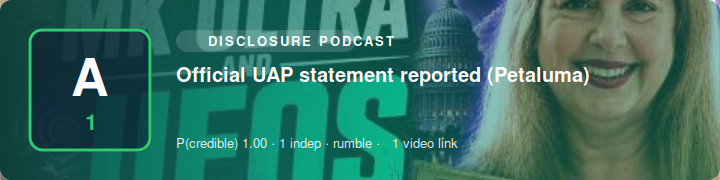
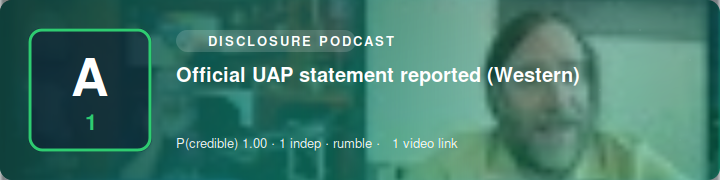
SITREP 2026-07-18 02:30 UTC

diff --git a/index.html b/index.html
@@ -1,1 +1,1 @@
-<!doctype html><meta charset=utf-8><title>Science Bob News — SITREP</title><style>body{font:16px/1.5 system-ui,sans-serif;max-width:760px;margin:2rem auto;padding:0 1rem;color:#111}h1{font-size:1.5rem}h2{margin-top:1.6rem;border-bottom:1px solid #ddd;padding-bottom:.2rem}ul{list-style:none;padding:0}li{margin:.9rem 0}.hl{font-weight:600}.meta{color:#555;font-size:.85rem}.src{font-size:.85rem}.vid{font-size:.85rem;margin-top:.15rem}.card{display:block;max-width:100%;height:auto;border-radius:8px;margin:.4rem 0 .5rem}.upd{background:#fde68a;padding:0 .3rem;border-radius:.2rem;font-size:.75rem}.sub{color:#777;font-size:.85rem}footer{color:#777;font-size:.8rem;margin-top:2rem;border-top:1px solid #ddd;padding-top:.6rem}</style><h1>🛸 Science Bob News</h1><div class="sub">UAP / UFO / USO SITREP · updated 2026-07-18 02:20 UTC · automated</div><h2>Corroborated</h2><ul><li><img class="card" src="https://n4hy.github.io/sciencebobnews-site/card_c_1.svg" alt="" width="720" height="180"><div class="hl">UAP report</div><div class="meta">reliability <b>A1</b> · P(credible)=1.0 · 2 independent source(s) · mastodon</div><div class="src"><a href="https://hachyderm.io/@pragmaticmarg/116936090002250302">@pragmaticmarg@hachyderm.io</a> · <a href="https://chaos.social/@agowa338/116934813769301887">@agowa338@chaos.social</a></div></li></ul><h2>Developing / unconfirmed</h2><ul><li><img class="card" src="https://n4hy.github.io/sciencebobnews-site/card_d_1.svg" alt="" width="720" height="180"><div class="hl">UAP report (McMinnville)</div><div class="meta">reliability <b>A1</b> · P(credible)=1.0 · 1 independent source(s) · rumble</div><div class="src"><a href="https://www.youtube.com/watch?v=7OT6uJ0yzVY">@podcast</a></div><div class="vid">📹 <a href="https://www.youtube.com/watch?v=7OT6uJ0yzVY">video</a></div></li><li><img class="card" src="https://n4hy.github.io/sciencebobnews-site/card_d_2.svg" alt="" width="720" height="180"><div class="hl">UAP whistleblower testimony reported (Frank)</div><div class="meta">reliability <b>A1</b> · P(credible)=1.0 · 1 independent source(s) · rumble</div><div class="src"><a href="https://www.youtube.com/watch?v=CxvFVjJKZtA">@podcast</a></div><div class="vid">📹 <a href="https://www.youtube.com/watch?v=CxvFVjJKZtA">video</a></div></li><li><img class="card" src="https://n4hy.github.io/sciencebobnews-site/card_d_3.svg" alt="" width="720" height="180"><div class="hl">UAP whistleblower testimony reported (American)</div><div class="meta">reliability <b>A1</b> · P(credible)=1.0 · 1 independent source(s) · rumble</div><div class="src"><a href="https://www.youtube.com/watch?v=LPtMaGpuK-M">@podcast</a></div><div class="vid">📹 <a href="https://www.youtube.com/watch?v=LPtMaGpuK-M">video</a></div></li><li><img class="card" src="https://n4hy.github.io/sciencebobnews-site/card_d_4.svg" alt="" width="720" height="180"><div class="hl">UAP report (Australia)</div><div class="meta">reliability <b>A1</b> · P(credible)=1.0 · 1 independent source(s) · rumble</div><div class="src"><a href="https://www.youtube.com/watch?v=ZegQhxJrJGo">@podcast</a></div><div class="vid">📹 <a href="https://www.youtube.com/watch?v=ZegQhxJrJGo">video</a></div></li><li><img class="card" src="https://n4hy.github.io/sciencebobnews-site/card_d_5.svg" alt="" width="720" height="180"><div class="hl">Official UAP statement reported (Petaluma)</div><div class="meta">reliability <b>A1</b> · P(credible)=1.0 · 1 independent source(s) · rumble</div><div class="src"><a href="https://www.youtube.com/watch?v=91mfojYSseo">@podcast</a></div><div class="vid">📹 <a href="https://www.youtube.com/watch?v=91mfojYSseo">video</a></div></li></ul><footer><b>Powered by Science Bob News.</b> Free to use with credit (see LICENSE). Headlines are factual restatements in the engine's own words; click sources for originals. Single-origin reposts collapse to one source; prosaic candidates flagged where offered.</footer>
+<!doctype html><meta charset=utf-8><title>Science Bob News — SITREP</title><style>body{font:16px/1.5 system-ui,sans-serif;max-width:760px;margin:2rem auto;padding:0 1rem;color:#111}h1{font-size:1.5rem}h2{margin-top:1.6rem;border-bottom:1px solid #ddd;padding-bottom:.2rem}ul{list-style:none;padding:0}li{margin:.9rem 0}.hl{font-weight:600}.meta{color:#555;font-size:.85rem}.src{font-size:.85rem}.vid{font-size:.85rem;margin-top:.15rem}.card{display:block;max-width:100%;height:auto;border-radius:8px;margin:.4rem 0 .5rem}.upd{background:#fde68a;padding:0 .3rem;border-radius:.2rem;font-size:.75rem}.sub{color:#777;font-size:.85rem}footer{color:#777;font-size:.8rem;margin-top:2rem;border-top:1px solid #ddd;padding-top:.6rem}</style><h1>🛸 Science Bob News</h1><div class="sub">UAP / UFO / USO SITREP · updated 2026-07-18 02:30 UTC · automated</div><h2>Corroborated</h2><ul><li><img class="card" src="https://n4hy.github.io/sciencebobnews-site/card_c_1.svg" alt="" width="720" height="180"><div class="hl">UAP report (Australia)</div><div class="meta">reliability <b>A1</b> · P(credible)=1.0 · 2 independent source(s) · bluesky+rumble</div><div class="src"><a href="https://www.youtube.com/watch?v=ZegQhxJrJGo">@podcast</a> · <a href="https://bsky.app/profile/did:plc:57ffbcbboipqps6xyajxwgoe/post/3mqv7tt2vhc2d">@did:plc:57ffbcbboipqps6xyajxwgoe</a></div><div class="vid">📹 <a href="https://www.youtube.com/watch?v=ZegQhxJrJGo">video</a></div></li><li><img class="card" src="https://n4hy.github.io/sciencebobnews-site/card_c_2.svg" alt="" width="720" height="180"><div class="hl">UAP report</div><div class="meta">reliability <b>A1</b> · P(credible)=1.0 · 2 independent source(s) · mastodon</div><div class="src"><a href="https://hachyderm.io/@pragmaticmarg/116936090002250302">@pragmaticmarg@hachyderm.io</a> · <a href="https://chaos.social/@agowa338/116934813769301887">@agowa338@chaos.social</a></div></li></ul><h2>Developing / unconfirmed</h2><ul><li><img class="card" src="https://n4hy.github.io/sciencebobnews-site/card_d_1.svg" alt="" width="720" height="180"><div class="hl">UAP report (McMinnville)</div><div class="meta">reliability <b>A1</b> · P(credible)=1.0 · 1 independent source(s) · rumble</div><div class="src"><a href="https://www.youtube.com/watch?v=7OT6uJ0yzVY">@podcast</a></div><div class="vid">📹 <a href="https://www.youtube.com/watch?v=7OT6uJ0yzVY">video</a></div></li><li><img class="card" src="https://n4hy.github.io/sciencebobnews-site/card_d_2.svg" alt="" width="720" height="180"><div class="hl">UAP whistleblower testimony reported (Frank)</div><div class="meta">reliability <b>A1</b> · P(credible)=1.0 · 1 independent source(s) · rumble</div><div class="src"><a href="https://www.youtube.com/watch?v=CxvFVjJKZtA">@podcast</a></div><div class="vid">📹 <a href="https://www.youtube.com/watch?v=CxvFVjJKZtA">video</a></div></li><li><img class="card" src="https://n4hy.github.io/sciencebobnews-site/card_d_3.svg" alt="" width="720" height="180"><div class="hl">UAP whistleblower testimony reported (American)</div><div class="meta">reliability <b>A1</b> · P(credible)=1.0 · 1 independent source(s) · rumble</div><div class="src"><a href="https://www.youtube.com/watch?v=LPtMaGpuK-M">@podcast</a></div><div class="vid">📹 <a href="https://www.youtube.com/watch?v=LPtMaGpuK-M">video</a></div></li><li><img class="card" src="https://n4hy.github.io/sciencebobnews-site/card_d_4.svg" alt="" width="720" height="180"><div class="hl">Official UAP statement reported (Petaluma)</div><div class="meta">reliability <b>A1</b> · P(credible)=1.0 · 1 independent source(s) · rumble</div><div class="src"><a href="https://www.youtube.com/watch?v=91mfojYSseo">@podcast</a></div><div class="vid">📹 <a href="https://www.youtube.com/watch?v=91mfojYSseo">video</a></div></li><li><img class="card" src="https://n4hy.github.io/sciencebobnews-site/card_d_5.svg" alt="" width="720" height="180"><div class="hl">Official UAP statement reported (Western)</div><div class="meta">reliability <b>A1</b> · P(credible)=1.0 · 1 independent source(s) · rumble</div><div class="src"><a href="https://www.youtube.com/watch?v=Po4FnZO4k3c">@podcast</a></div><div class="vid">📹 <a href="https://www.youtube.com/watch?v=Po4FnZO4k3c">video</a></div></li></ul><footer><b>Powered by Science Bob News.</b> Free to use with credit (see LICENSE). Headlines are factual restatements in the engine's own words; click sources for originals. Single-origin reposts collapse to one source; prosaic candidates flagged where offered.</footer>

diff --git a/sitrep.md b/sitrep.md
@@ -1,10 +1,16 @@
 # 🛸 Science Bob News — UAP / UFO / USO SITREP
-*Updated 2026-07-18 02:20 UTC · auto-generated · sources credited & linked · reliability ratings are automated, not editorial*
+*Updated 2026-07-18 02:30 UTC · auto-generated · sources credited & linked · reliability ratings are automated, not editorial*
 
 ## Corroborated
 
-![UAP report](https://n4hy.github.io/sciencebobnews-site/card_c_1.svg)
-1. **UAP report**  
+![UAP report (Australia)](https://n4hy.github.io/sciencebobnews-site/card_c_1.svg)
+1. **UAP report (Australia)**  
+   reliability **A1** · P(credible)=1.0 · 2 independent source(s) · bluesky+rumble  
+   [@podcast](https://www.youtube.com/watch?v=ZegQhxJrJGo) · [@did:plc:57ffbcbboipqps6xyajxwgoe](https://bsky.app/profile/did:plc:57ffbcbboipqps6xyajxwgoe/post/3mqv7tt2vhc2d)  
+   📹 [video](https://www.youtube.com/watch?v=ZegQhxJrJGo)
+
+![UAP report](https://n4hy.github.io/sciencebobnews-site/card_c_2.svg)
+2. **UAP report**  
    reliability **A1** · P(credible)=1.0 · 2 independent source(s) · mastodon  
    [@pragmaticmarg@hachyderm.io](https://hachyderm.io/@pragmaticmarg/116936090002250302) · [@agowa338@chaos.social](https://chaos.social/@agowa338/116934813769301887)
 
@@ -25,15 +31,15 @@
    [@podcast](https://www.youtube.com/watch?v=LPtMaGpuK-M)  
    📹 [video](https://www.youtube.com/watch?v=LPtMaGpuK-M)
 
-![UAP report (Australia)](https://n4hy.github.io/sciencebobnews-site/card_d_4.svg)
-4. UAP report (Australia) — reliability A1 · 1 source(s)  
-   [@podcast](https://www.youtube.com/watch?v=ZegQhxJrJGo)  
-   📹 [video](https://www.youtube.com/watch?v=ZegQhxJrJGo)
-
-![Official UAP statement reported (Petaluma)](https://n4hy.github.io/sciencebobnews-site/card_d_5.svg)
-5. Official UAP statement reported (Petaluma) — reliability A1 · 1 source(s)  
+![Official UAP statement reported (Petaluma)](https://n4hy.github.io/sciencebobnews-site/card_d_4.svg)
+4. Official UAP statement reported (Petaluma) — reliability A1 · 1 source(s)  
    [@podcast](https://www.youtube.com/watch?v=91mfojYSseo)  
    📹 [video](https://www.youtube.com/watch?v=91mfojYSseo)
+
+![Official UAP statement reported (Western)](https://n4hy.github.io/sciencebobnews-site/card_d_5.svg)
+5. Official UAP statement reported (Western) — reliability A1 · 1 source(s)  
+   [@podcast](https://www.youtube.com/watch?v=Po4FnZO4k3c)  
+   📹 [video](https://www.youtube.com/watch?v=Po4FnZO4k3c)
 
 ---
 *Powered by Science Bob News. Free to use with credit (see LICENSE). Headlines are factual restatements in the engine's own words — click through to the linked sources for originals. Reposts of a single origin are collapsed to one source; candidate prosaic explanations are flagged where offered.*
